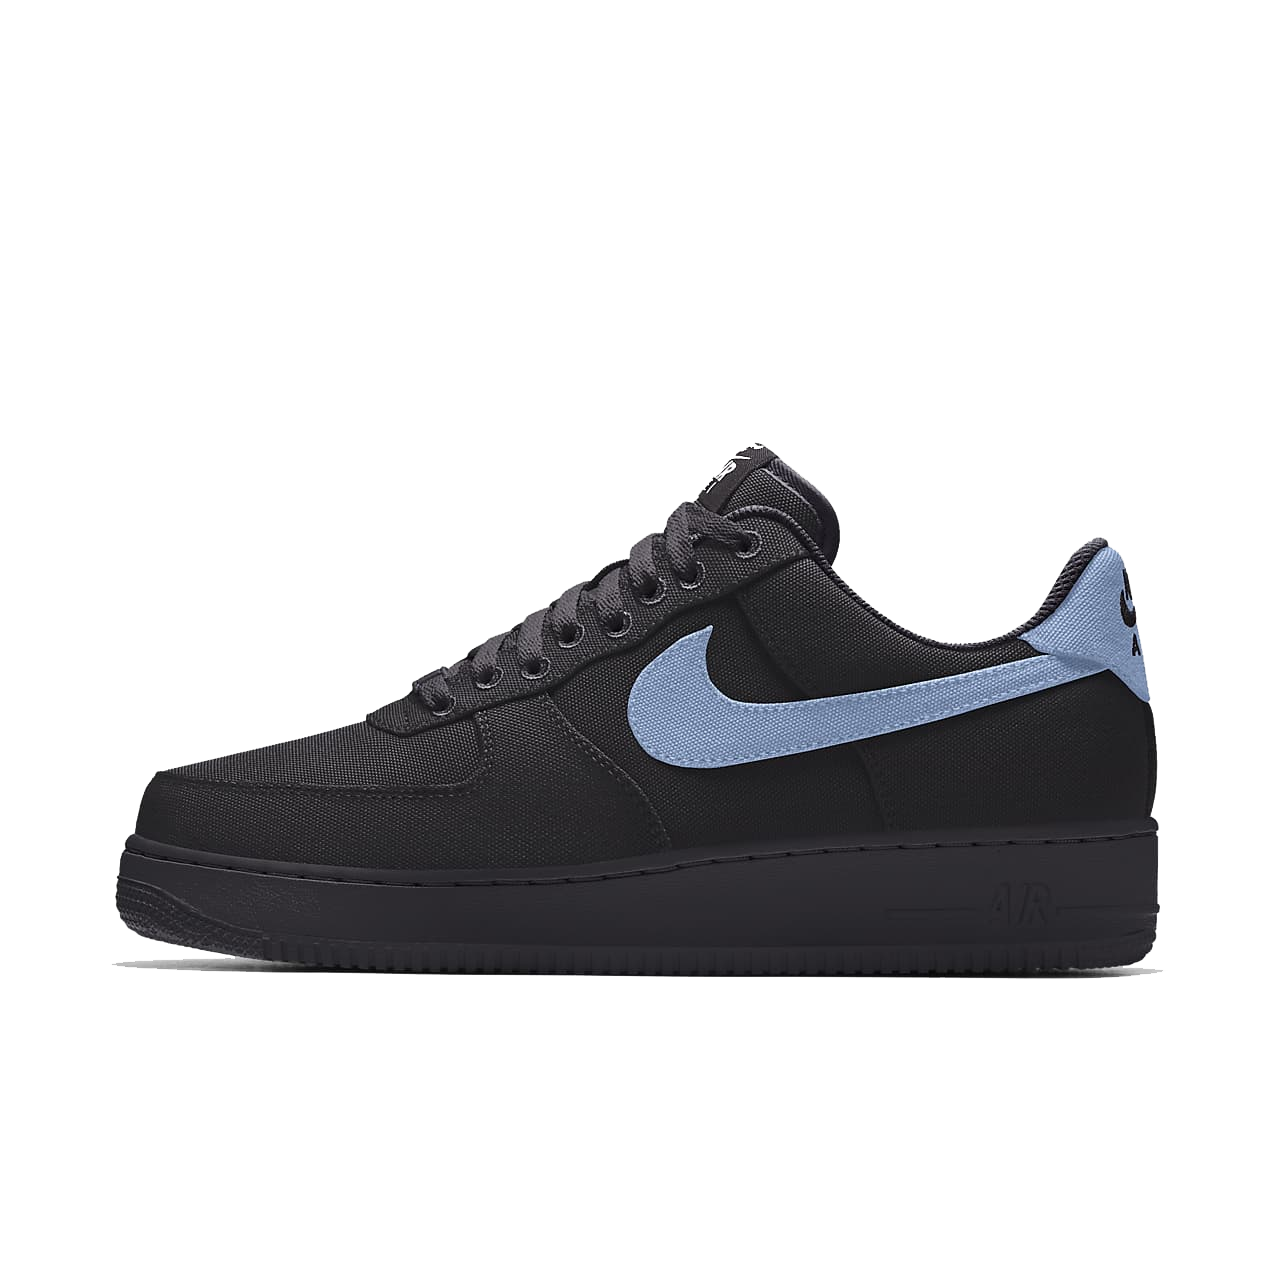
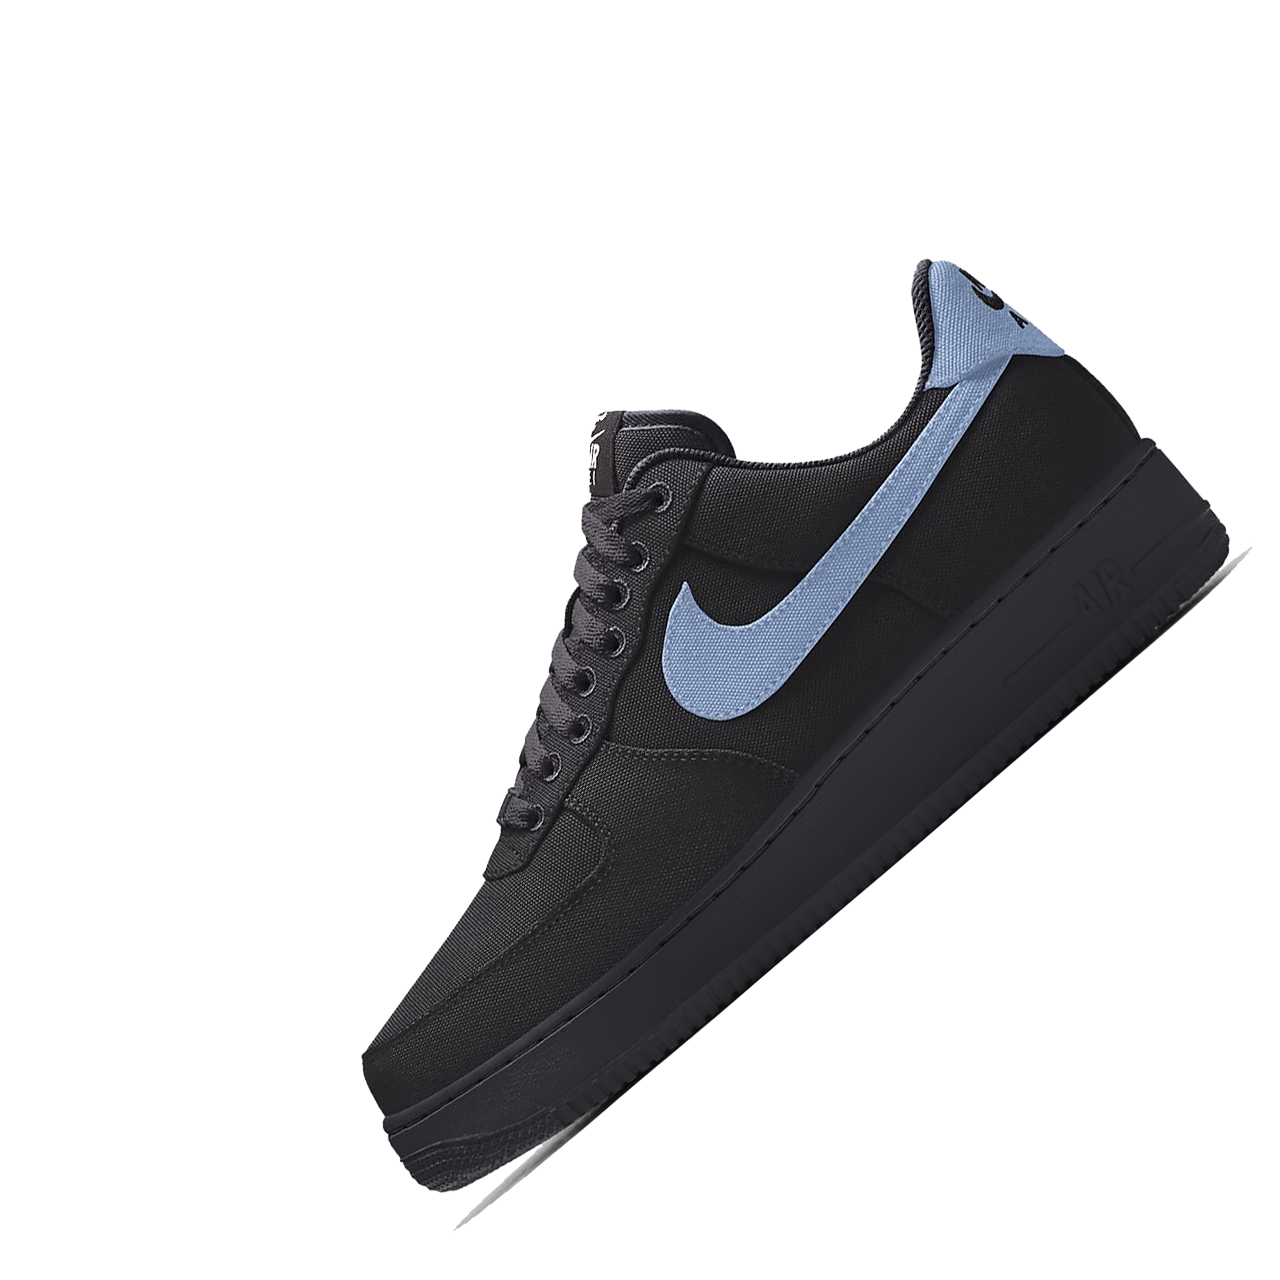
Home_Featured

Changed region(s): [[0.0938, 0.1875, 0.9688, 0.9688]]

diff --git a/src/components/Header.vue b/src/components/Header.vue
@@ -24,14 +24,28 @@
 
     </header>
 
+    <main class="I-main">
+        <section class="home" id="home">
+            <div class="home__container bd-grid">
+                <div class="home__sneaker">
+                    <div class="home__shape"></div>
+                    <img src="images/img_hdr/nike-air-force.png" alt="" class="home__img">
+                </div>
 
+                <div class="home__data">
+                    <span class="home__new">Nike Air</span>
+                    <p>Experience the New Nike Air</p>
+                </div>
+
+            </div>
+        </section>
+
+</main>
 </template>
 
 <script setup>
 
 </script>  
  
-<style scoped>
-
-</style>
+<style scoped></style>
 

diff --git a/src/components/Home.vue b/src/components/Home.vue
@@ -1,21 +1,5 @@
 <template>
-    <main class="I-main">
-        <section class="home" id="home">
-            <div class="home__container bd-grid">
-                <div class="home__sneaker">
-                    <div class="home__shape"></div>
-                    <img src="images/img_hdr/nike-air-force.png" alt="" class="home__img">
-                </div>
-
-                <div class="home__data">
-                    <span class="home__new">Nike Air</span>
-                    <p>Experience the New Nike Air</p>
-                </div>
-
-            </div>
-        </section>
-
-    </main>
+ 
 </template> 
 
 <script setup>

diff --git a/src/components/Featured.vue b/src/components/Featured.vue
@@ -1,5 +1,14 @@
 <template>
-
+      <section class="featured section" id="featured">
+        <h2 class="section-title">Featured</h2>
+        
+        <div class="featured__container bd-grid">
+            <article class="sneaker">
+                <div class="sneaker__sale">Sale</div>
+                <img src="images/img_hdr/pngegg.png" alt="" class="">
+            </article>
+        </div>
+    </section>
 
 </template> 
 

diff --git a/src/assets/main.css b/src/assets/main.css
@@ -263,7 +263,7 @@ a {
 }
 
 .home__img:hover{
-  transform: rotate(-15deg) scale(1.5);
+  transform: rotate(15deg) scale(1.5);
 }
 
 .home__new {
